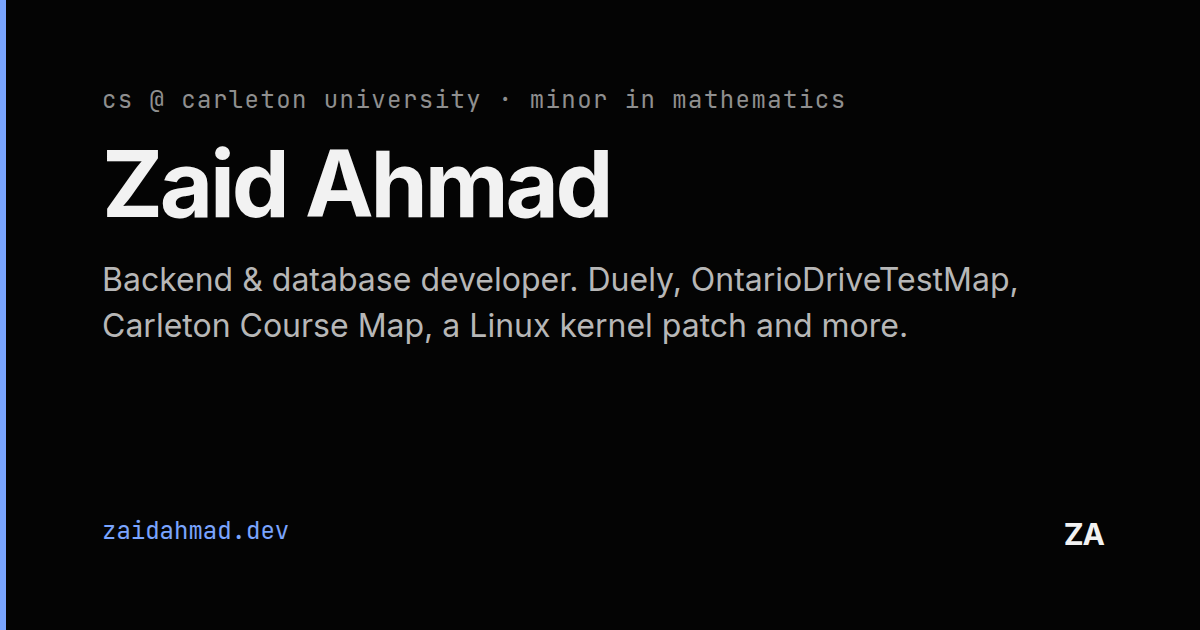
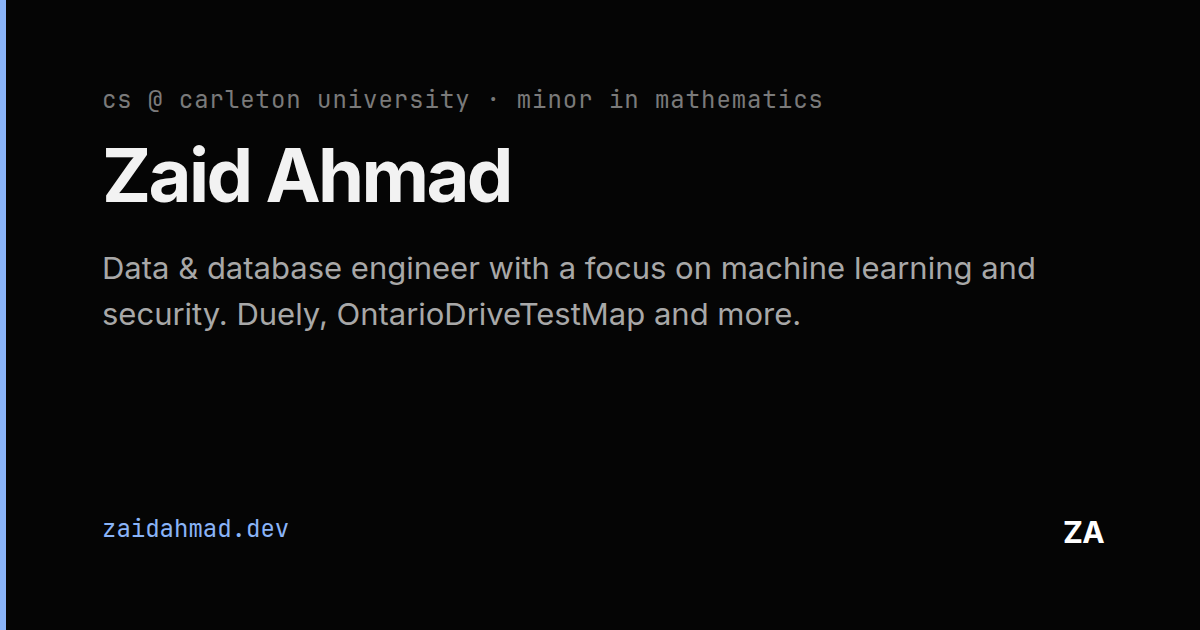
Homepage: new tagline, drop co-op
Tagline is now "Data & database engineer with a focus on machine learning
and security." (hero, meta and og descriptions, and the link-preview card),
balanced across two lines. "co-op" is removed from the terminal's whoami
and the Education entry. Terminal script and stylesheet versions bumped so
browsers fetch the new text.

diff --git a/index.html b/index.html
@@ -4,11 +4,11 @@
   <meta charset="UTF-8">
   <meta name="viewport" content="width=device-width, initial-scale=1.0">
   <title>Zaid Ahmad — CS @ Carleton</title>
-  <meta name="description" content="Backend &amp; database developer. Duely, OntarioDriveTestMap, Carleton Course Map, a Linux kernel patch and more.">
+  <meta name="description" content="Data &amp; database engineer with a focus on machine learning and security. Duely, OntarioDriveTestMap, Carleton Course Map, a Linux kernel patch and more.">
   <meta property="og:type" content="website">
   <meta property="og:site_name" content="Zaid Ahmad">
   <meta property="og:title" content="Zaid Ahmad — CS @ Carleton">
-  <meta property="og:description" content="Backend &amp; database developer. Duely, OntarioDriveTestMap, Carleton Course Map, a Linux kernel patch and more.">
+  <meta property="og:description" content="Data &amp; database engineer with a focus on machine learning and security. Duely, OntarioDriveTestMap, Carleton Course Map, a Linux kernel patch and more.">
   <meta property="og:url" content="https://zaidahmad.dev/">
   <meta property="og:image" content="https://zaidahmad.dev/static/images/og/index.png">
   <meta property="og:image:width" content="1200">
@@ -19,7 +19,7 @@
   <link rel="preconnect" href="https://fonts.gstatic.com" crossorigin>
   <link href="https://fonts.googleapis.com/css2?family=Inter:wght@400;500;600;700&family=JetBrains+Mono:wght@400;500&display=swap" rel="stylesheet">
   <link rel="stylesheet" href="tokens.css">
-  <link rel="stylesheet" href="static/css/styles.css?v=25">
+  <link rel="stylesheet" href="static/css/styles.css?v=26">
   <link rel="stylesheet" href="static/css/pokemon-battle.css">
   <link rel="stylesheet" href="static/css/snake.css">
 </head>
@@ -59,7 +59,7 @@
         <div class="id-text">
           <h1 class="id-name cin-line">Zaid Ahmad</h1>
           <p class="id-title cin-line">CS @ Carleton University &middot; 2029</p>
-          <p class="id-bio cin-line">Backend &amp; database developer.</p>
+          <p class="id-bio cin-line">Data &amp; database engineer with a focus on machine learning and security.</p>
           <div class="id-ctas cin-group">
             <a class="id-btn id-btn--primary" href="#contact" data-switch-page="contact">Get in touch →</a>
             <a href="static/docs/ZaidAhmadResume.pdf" target="_blank" rel="noopener" class="id-btn id-btn--secondary">Resume ↗</a>
@@ -305,7 +305,7 @@
               <h3 class="exp-role">B.Sc. Computer Science <span class="exp-sep">&middot;</span> <span class="exp-co">Carleton University</span></h3>
               <span class="exp-date">2024 &ndash; 2029</span>
             </div>
-            <p class="exp-detail">AI &amp; Machine Learning co-op stream, with a minor in mathematics.</p>
+            <p class="exp-detail">AI &amp; Machine Learning stream, with a minor in mathematics.</p>
             <div class="pill-row">
               <span>Data Structures</span><span>C/C++</span><span>Linear Algebra</span><span>Discrete Structures II</span><span>Web Applications</span>
             </div>
@@ -511,7 +511,7 @@
   <script src="static/js/terminal.js?v=5"></script>
   <script src="static/js/pokemon-battle.js"></script>
   <script src="static/js/cmd-palette.js"></script>
-  <script src="static/js/hero-term.js?v=3" defer></script>
+  <script src="static/js/hero-term.js?v=4" defer></script>
   <script src="static/js/boot.js"></script>
 </body>
 </html>

diff --git a/static/js/hero-term.js b/static/js/hero-term.js
@@ -48,7 +48,7 @@
         blank();
         line('cs @ carleton university');
         line('minor in mathematics');
-        line('ai/ml co-op stream &middot; 2029');
+        line('ai/ml stream &middot; 2029');
         break;
 
       case 'ls':

diff --git a/static/css/styles.css b/static/css/styles.css
@@ -215,6 +215,7 @@ html.is-paged body { overflow: hidden; height: 100%; }
   color: var(--color-ink-2);
   line-height: 1.75;
   max-width: 52ch;
+  text-wrap: balance;
   margin-bottom: var(--space-lg);
 }
 
